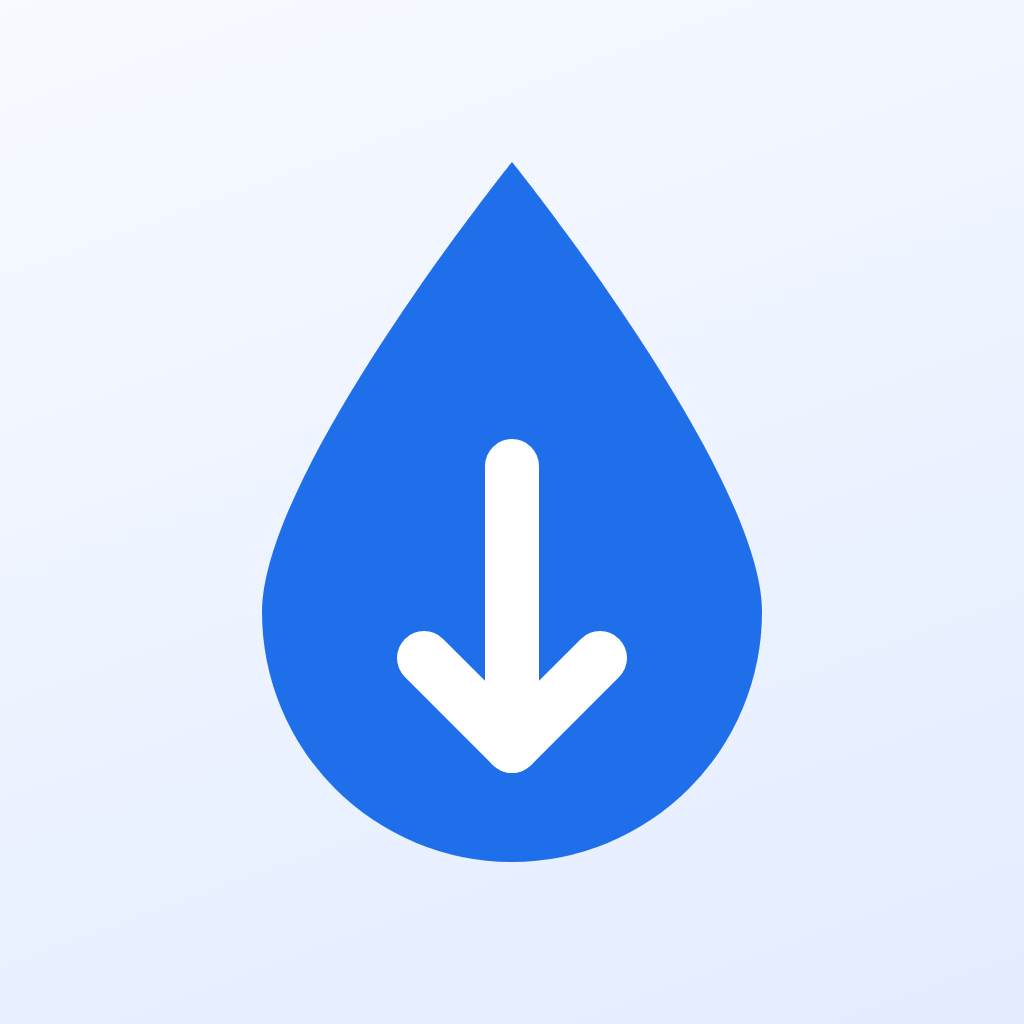
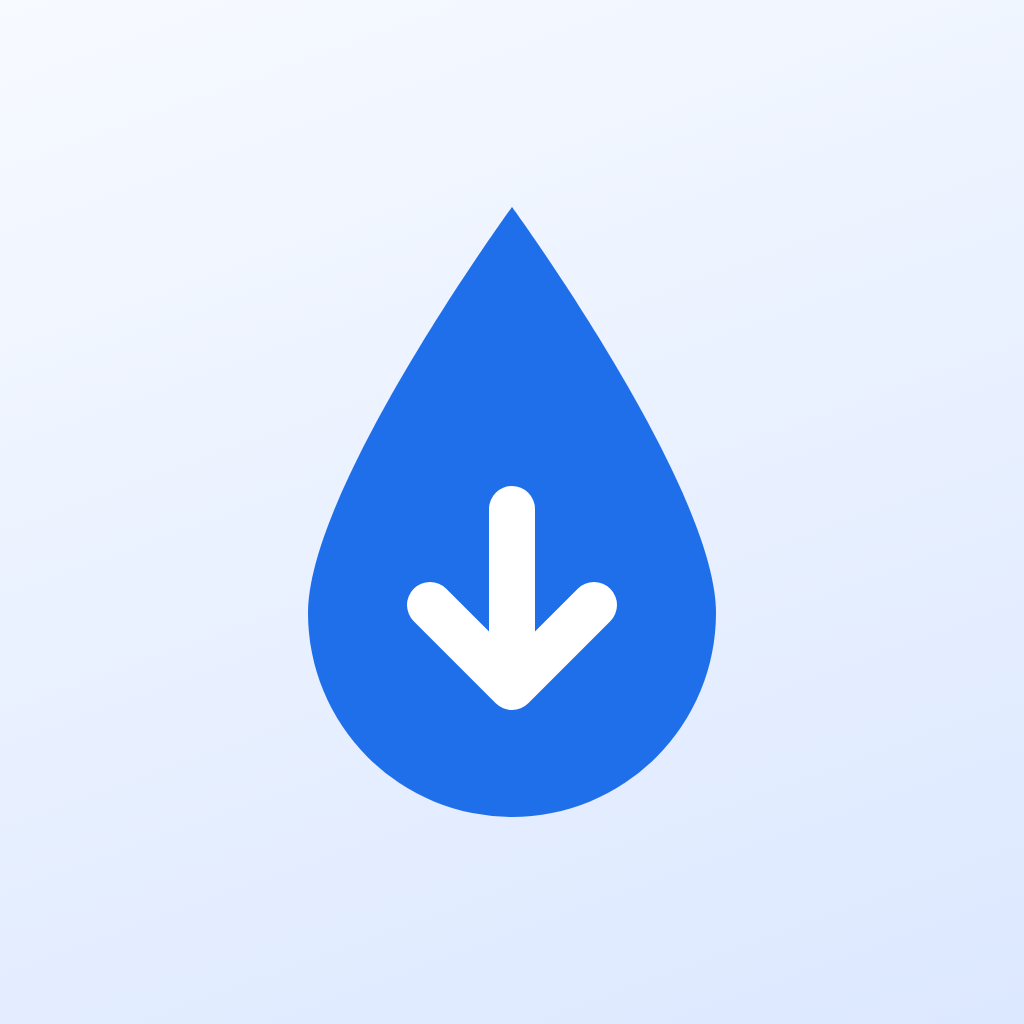
アイコン: 最初の B 案そのままにし、上下の位置だけ中央へ
形も大きさも B のまま。57px 下げて余白を上下とも 207px に揃えた。

Changed region(s): [[0.25, 0.1562, 0.75, 0.8438], [0.375, 0.4062, 0.625, 0.75]]

diff --git a/ios/アイコン/_生成元/icon-final.html b/ios/アイコン/_生成元/icon-final.html
@@ -1,15 +1,15 @@
 <!doctype html><meta charset="utf-8">
 <style>html,body{margin:0;width:1024px;height:1024px;overflow:hidden}
 .wrap{position:relative;width:1024px;height:1024px}
-.bg{position:absolute;inset:0;background:linear-gradient(160deg,#F7FAFF 0%,#E3ECFF 100%)}
+.bg{position:absolute;inset:0;background:linear-gradient(160deg,#F7FAFF 0%,#DCE8FF 100%)}
 svg{position:absolute;inset:0;width:1024px;height:1024px}</style>
 <div class="wrap">
   <div class="bg"></div>
   <svg viewBox="0 0 1024 1024">
-    <path d="M 512 162 C 512 162, 762 472.5, 762 612 A 250 250 0 1 1 262 612 C 262 472.5, 512 162, 512 162 Z" fill="#1F6FEB"/>
-    <g stroke="#fff" stroke-width="54" stroke-linecap="round" stroke-linejoin="round" fill="none">
-      <path d="M 512 466 V 746"/>
-      <path d="M 424 658 L 512 746 L 600 658"/>
+    <g transform="translate(0,57)">
+      <path d="M512 150 C 512 150, 716 430, 716 556 a204 204 0 1 1 -408 0 C 308 430, 512 150, 512 150 Z" fill="#1F6FEB"/>
+      <path d="M512 452 v168 M430 548 l82 82 82-82" stroke="#fff" stroke-width="46"
+            stroke-linecap="round" stroke-linejoin="round" fill="none"/>
     </g>
   </svg>
 </div>

diff --git a/ios/アイコン/_生成元/icon-final.py b/ios/アイコン/_生成元/icon-final.py
@@ -1,33 +1,30 @@
 # -*- coding: utf-8 -*-
-"""Mr.Drop のアプリアイコン（採用案）。青い雫の中に下向きの矢印＝「PC へ送る」。
-   雫は drop.py の接線モデル。PNG は直接加工せず、ここから作り直すこと。"""
+"""Mr.Drop のアプリアイコン（採用＝最初に作った B 案）。
+   形も大きさも B のまま。**上下の位置だけ**真ん中に寄せてある。
+
+   B の雫は先端 y=150・円の中心 y=556・半径 204 なので、
+   下端は 760。そのままだと上の余白 150 / 下の余白 264 で 57px 上に寄る。
+   → 全体を 57px 下げると、上下とも 207px で揃う。
+"""
 import subprocess, os
-from drop import drop_classic
 
 CHROME = "/Applications/Google Chrome.app/Contents/MacOS/Google Chrome"
 OUT = os.path.abspath("../AppIcon.png")
 
-# 大きく・丸く。height/R を小さくするほど先が丸くなる（2.2→1.8）
-R, HEIGHT = 250, 450
-# 🔴 CY は「見た目の真ん中」から逆算する。上の余白＝下の余白 になる位置:
-#    (CY - HEIGHT) == 1024 - (CY + R)  →  CY = (1024 + HEIGHT - R) / 2
-CX, CY = 512, (1024 + HEIGHT - R) // 2
-DROP = drop_classic(CX, CY, R, HEIGHT)
-AY = CY - 6                        # 矢印の中心。丸い部分の中に収める
-LEN, HALF = 140, 88                # 矢羽根の長さと開き
+SHIFT = 57      # (1024 - (150 + 760)) / 2 - 150 = 57
 
 HTML = f"""<!doctype html><meta charset="utf-8">
 <style>html,body{{margin:0;width:1024px;height:1024px;overflow:hidden}}
 .wrap{{position:relative;width:1024px;height:1024px}}
-.bg{{position:absolute;inset:0;background:linear-gradient(160deg,#F7FAFF 0%,#E3ECFF 100%)}}
+.bg{{position:absolute;inset:0;background:linear-gradient(160deg,#F7FAFF 0%,#DCE8FF 100%)}}
 svg{{position:absolute;inset:0;width:1024px;height:1024px}}</style>
 <div class="wrap">
   <div class="bg"></div>
   <svg viewBox="0 0 1024 1024">
-    <path d="{DROP}" fill="#1F6FEB"/>
-    <g stroke="#fff" stroke-width="54" stroke-linecap="round" stroke-linejoin="round" fill="none">
-      <path d="M {CX} {AY-LEN} V {AY+LEN}"/>
-      <path d="M {CX-HALF} {AY+LEN-HALF} L {CX} {AY+LEN} L {CX+HALF} {AY+LEN-HALF}"/>
+    <g transform="translate(0,{SHIFT})">
+      <path d="M512 150 C 512 150, 716 430, 716 556 a204 204 0 1 1 -408 0 C 308 430, 512 150, 512 150 Z" fill="#1F6FEB"/>
+      <path d="M512 452 v168 M430 548 l82 82 82-82" stroke="#fff" stroke-width="46"
+            stroke-linecap="round" stroke-linejoin="round" fill="none"/>
     </g>
   </svg>
 </div>
@@ -38,4 +35,4 @@ open(src, "w", encoding="utf-8").write(HTML)
 subprocess.run([CHROME, "--headless", "--disable-gpu", "--hide-scrollbars",
                 "--force-device-scale-factor=1", "--window-size=1024,1024",
                 f"--screenshot={OUT}", f"file://{src}"], check=True, capture_output=True)
-print("作りました:", OUT)
+print("作りました:", OUT, f"（先端 y={150+SHIFT} / 底 y={760+SHIFT} → 余白は上下とも {150+SHIFT}px）")
